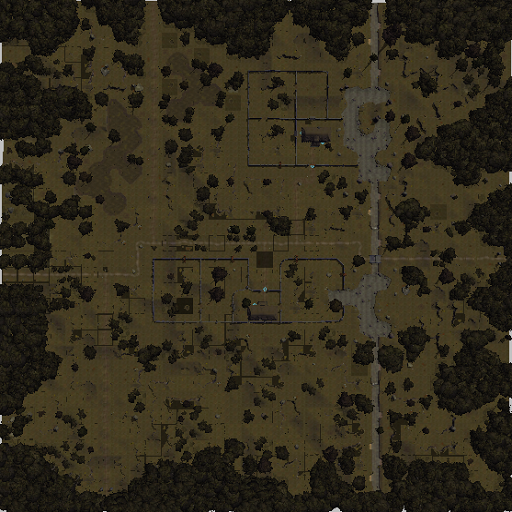
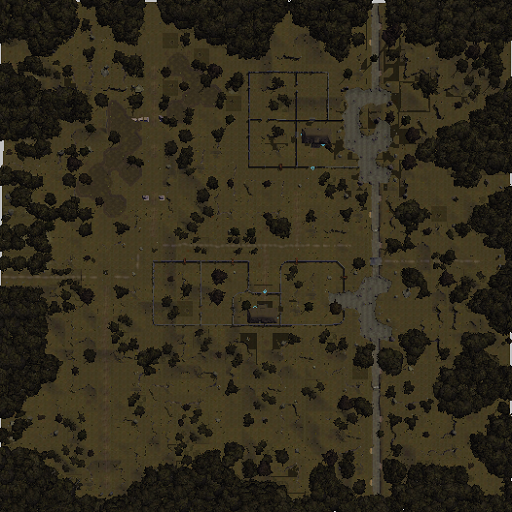
v220304

diff --git a/common.js b/common.js
@@ -21,9 +21,9 @@ var map = {
         't_venezir_sw',  't_venezir_s',   't_venezir_se'  ,'SulZaz3',       'SulZaz4',       'SulZaz5',         't_tethyrcast_w', 't_tethyrcast',    't_tethyrcast_e',  't_alemwood_nw',   't_alemwood_ne',   't_hostim_hill_nw','t_hostim',        't_hostim_wood',   't_ithmon_crag_nw','t_ithmon_crag_ne','t_lhest_gorge',   't_lhest_farm_sw', 't_lhest_farm_s',  't_lhest_farm_se','t_rivshrehill_n','t_rivshrehill_ne',    't_varyth_hill_nw','t_varyth_hill_n', 't_varyth_hill_ne','0map',         't_iltarghal',      '0map',         't_survale',    '0map',       
         '0map',          '0map',          't_vintor_okr_1','t_vintor_okr_2','t_vintor_okr_3','t_bardshyr_okr',  't_tethyrcast_sw','t_tethyrcast_s',  't_tethyrcast_se', 't_alemwood_sw',   't_bardshyr_alem', 't_hostim_hill_w', 't_hostim_road',   't_hostim_hill_e', 't_ithmon_crag_sw','t_ithmon_crag_se','t_qonsir',        't_qonsir_farm',   't_lhest_road',    't_rivshrehill_w','t_rivshrehill_c','t_st_ostus',          't_varyth_hill_sw','t_varyth_hill_s', 't_varyth_hill_se','0map',         '0map',             '0map',         '0IthalRoadNS', '0map',       
         '0map',          '0map',          '0map',          '0map',          '0map',          't_sahark_crossrd','t_saharkhan',    't_bardshy_itr_1', 't_bardshy_itr_2', 't_bardshy_itr_3', 't_bardshy_itr_4', 't_ithmon_ithr_w1','t_ithmon_ithr_w2','t_ithmon_lorcros','t_ithmon_ithr_e1','t_ithmon_ithr_e2','t_rvrshr_ithrdw', 't_crownfarms_nw', 't_crownfarms_n',  't_crownfarms_ne','t_rivshrehill_s','t_rivshrehill_se',    '0map',            '0map',            't_thrynnar_hold', '0IthalRoadWE', '0IthalRoadWE',     '0IthalRoadWE', '0IthalRoadNWS','0map',       
-        '0map',          '0map',          '0map',          '0map',          '0map',          't_soldieroad_1',  '0map',           '0map',            '0map',            '0map',            '0map',            't_ithmon_pipe_n', 't_ithmon_farm_nw','t_ithmon_farm_n', 't_ithmon_farm_ne','t_loransewood_n', 't_crownfarms_iw2','t_crownfarms_iw1','t_darromar',      't_foyen_rd',     't_foyen',        '0map',                '0map',            '0map',            '0IthalRoadNS',    '0map',         '0map',             '0map',         '0IthalRoadEN', 't_veaddakar',       
-        '0map',          '0map',          '0map',          't_dasaajk',     '0map',          't_soldieroad_2',  '0map',           '0map',            '0map',            '0map',            '0map',            't_ithmon_pipe_s', 't_ithmon_farm_w', 't_ithmon_loranse','t_ithmon_farm_e', 't_loransewood_s', '0map',            't_clov_fld_nw',   't_clov_fld_itr_n','0map',           '0map',           '0map',                '0IthalRoadES',    '0IthalRoadWE',    '0IthalRoadWN',    '0map',         '0map',             '0map',         '0map',         '0map',       
-        '0map',          't_vineshade',   '0map',          '0map',          '0map',          't_krennasar',     '0map',           '0map',            '0map',            '0map',            '0map',            't_loranse_swamp', '0map',            '0map',            '0map',            '0map',            't_ruba',          '0IthalRoadWE',    't_clov_fld_itr_s','0IthalRoadWES',  '0IthalRoadWE',   '0IthalRoadWE',        '0IthalRoadNWS',   '0map',            '0map',            '0map',         '0map',             '0map',         '0map',         '0map',       
+        '0map',          '0map',          '0map',          '0map',          '0map',          't_soldieroad_1',  '0map',           '0IthalRoadNS',    '0map',            '0map',            '0IthalRoadNS',    't_ithmon_pipe_n', 't_ithmon_farm_nw','t_ithmon_farm_n', 't_ithmon_farm_ne','t_loransewood_n', 't_crownfarms_iw2','t_crownfarms_iw1','t_darromar',      't_foyen_rd',     't_foyen',        '0map',                '0map',            '0map',            '0IthalRoadNS',    '0map',         '0map',             '0map',         '0IthalRoadEN', 't_veaddakar',       
+        '0map',          '0map',          '0map',          't_dasaajk',     '0map',          't_soldieroad_2',  '0map',           '0IthalRoadNS',    '0map',            '0IthalRoadES',    '0IthalRoadWN',    't_ithmon_pipe_s', 't_ithmon_farm_w', 't_ithmon_loranse','t_ithmon_farm_e', 't_loransewood_s', '0map',            't_clov_fld_nw',   't_clov_fld_itr_n','0map',           '0map',           '0map',                '0IthalRoadES',    '0IthalRoadWE',    '0IthalRoadWN',    '0map',         '0map',             '0map',         '0map',         '0map',       
+        '0map',          't_vineshade',   '0map',          '0map',          '0map',          't_krennasar',     '0IthalRoadWE',   '0IthalRoadNWE',   't_jongrath',      '0IthalRoadWN',    '0map',            't_loranse_swamp', '0map',            '0map',            '0map',            '0map',            't_ruba',          '0IthalRoadWE',    't_clov_fld_itr_s','0IthalRoadWES',  '0IthalRoadWE',   '0IthalRoadWE',        '0IthalRoadNWS',   '0map',            '0map',            '0map',         '0map',             '0map',         '0map',         '0map',       
         '0map',          '0map',          '0map',          '0map',          '0IthalRoadES',  '0IthalRoadWN',    '0map',           '0map',            '0map',            '0map',            '0map',            '0map',            '0map',            '0map',            '0map',            '0map',            '0IthalRoadNS',    '0map',            '0map',            't_abbor',        '0map',           '0map',                '0IthalRoadNES',   '0IthalRoadWE',    '0IthalRoadWE',    '0IthalRoadWE', '0IthalRoadWS',     '0map',         '0map',         '0map',       
         '0map',          '0map',          '0map',          't_refields_n',  't_refields_ne', '0map',            '0map',           '0map',            '0map',            '0map',            '0map',            '0map',            '0map',            '0map',            't_pelmarin',      '0IthalRoadWE',    '0IthalRoadWN',    '0map',            '0map',            '0map',           '0map',           '0map',                't_mistletoe',     '0map',            '0map',            '0map',         '0IthalRoadNES',    '0IthalRoadWE', '0IthalRoadWES','t_barakmordin',       
         '0map',          '0map',          't_myratma_w',   't_myratma_e',   't_refields_e',  '0IthalRoadWE',    '0IthalRoadWE',   't_maratimmir',    '0IthalRoadWE',    '0IthalRoadWE',    '0IthalRoadWE',    '0IthalRoadWES',   '0IthalRoadWE',    '0IthalRoadWE',    '0IthalRoadWN',    '0map',            '0map',            '0map',            '0map',            '0map',           '0map',           '0map',                '0map',            '0map',            '0map',            '0map',         '0IthalRoadNS',     '0map',         '0IthalRoadNS', '0map',       
